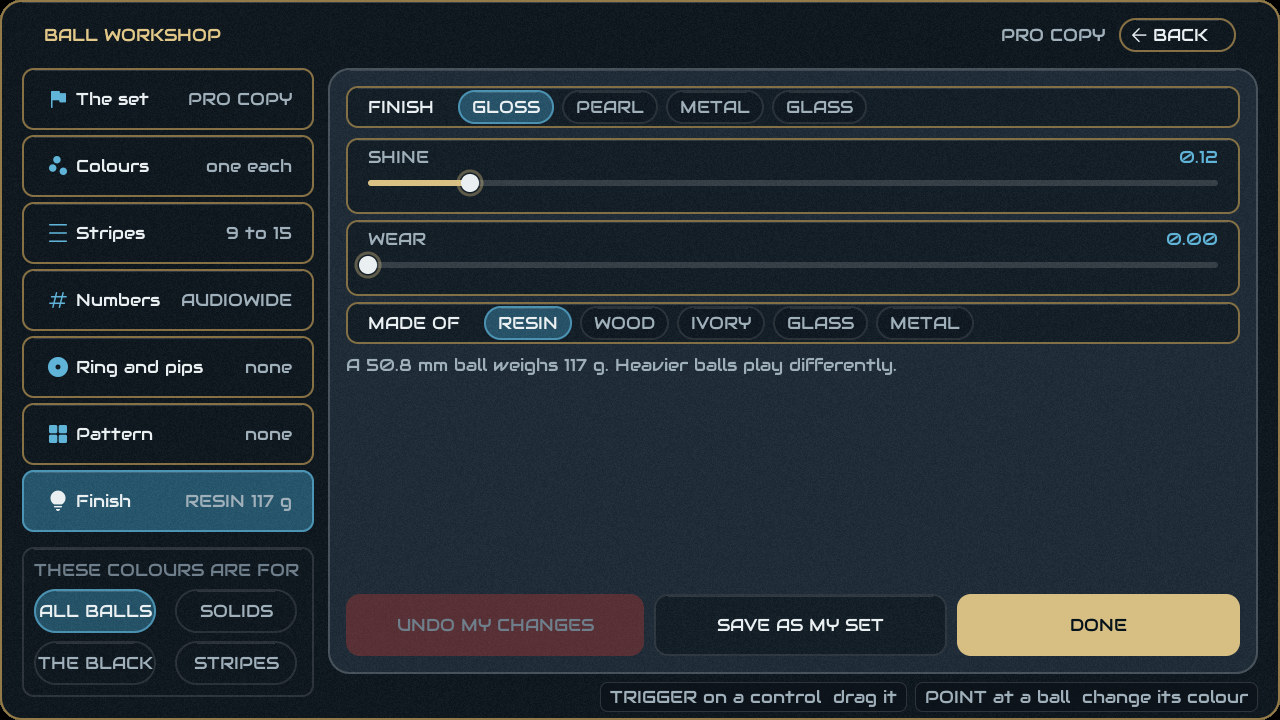
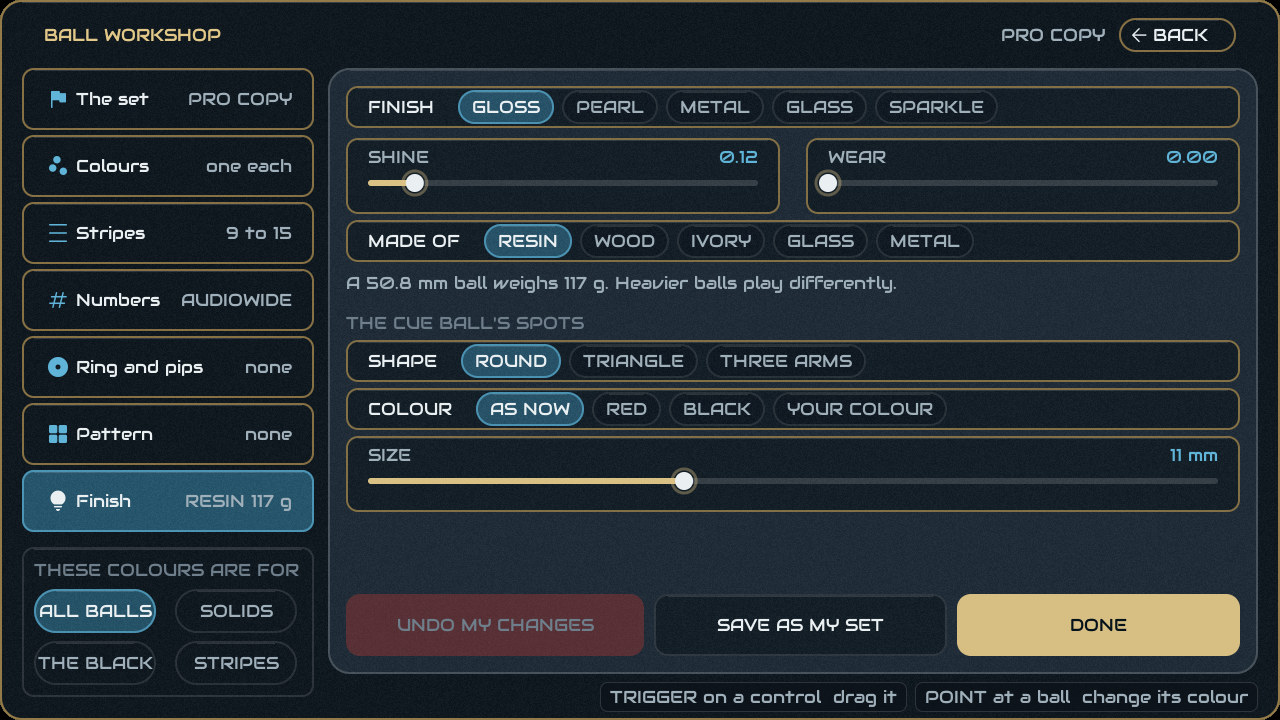
CueVR guide for 9.4.0: UK 8-ball's five rule sets in one table (WORLD RULES added; PUB's two visits carry, the free shot not the black, colours decided by a pot on it; the break and the black off it, in-hand areas and shot clocks for each; jump shots foul in all five), PLAY FROM BAULK, Heyball's jum

diff --git a/docs/cuevr-guide.html b/docs/cuevr-guide.html
@@ -1033,7 +1033,8 @@
       <b>free ball</b>: they may nominate any ball as the one they are on, and it scores what the
       real ball on is worth. Once you name a free ball you must hit it first, a foul with it costs
       what the ball on is worth, and you may not leave your opponent snookered behind it, except
-      when only the pink and black are left.</p>
+      when only the pink and black are left. If you pot the free ball and a colour that is on
+      together, only the colour scores.</p>
       <p><b>Miss.</b> Failing to hit the ball on is always a foul, and the referee judges whether
       it is also a <b>miss</b> — whether your attempt was good enough — at the standard set on the
       <b>RULES</b> row (see <a href="#rules">Rules and the referee</a>). When a miss is called your
@@ -1056,11 +1057,36 @@
     <figure><img width="880" height="606" src="img/cuevr/game-snk15.png" alt="A 12ft snooker table"></figure>
   </div>
 
+  <div class="mode rev">
+    <figure><img width="880" height="606" src="img/cuevr/snk-golden.png" alt="The golden ball against the middle of the baulk cushion" loading="lazy"></figure>
+    <div>
+      <h3 id="golden-ball">GOLDEN BALL</h3>
+      <div class="spec">ON THE SNOOKER RULES ROW · A GOLD WORTH 20</div>
+      <p>A gold ball sits against the middle of the baulk cushion. You may pot it only after a
+      maximum break: 147 on a full table, 107 with 10 reds, 75 with 6 and 51 with 3, which makes
+      167, 127, 95 or 71 with the gold. Once a maximum is no longer possible, the gold comes off the
+      table. Hitting it before then is a foul, priced as the black. The computer plays for it too,
+      and it works with 15, 10, 6 and 3 reds.</p>
+    </div>
+  </div>
+
+  <div class="mode">
+    <div>
+      <h3 id="snooker-plus">SNOOKER PLUS</h3>
+      <div class="spec">ON THE SNOOKER RULES ROW · ORANGE 8 · PURPLE 10</div>
+      <p>Joe Davis's 1959 game. Two more colours: an <b>orange worth 8</b> on a spot between the
+      pink and the blue, and a <b>purple worth 10</b> between the brown and the blue. After the
+      reds, the colours go in order of value, yellow to black, then the orange and the purple last.
+      The highest break on a full table is 210. It works with 15, 10, 6 and 3 reds, and online.</p>
+    </div>
+    <figure><img width="880" height="606" src="img/cuevr/snk-plus.png" alt="Snooker Plus: the orange between the pink and the blue, the purple between the blue and the brown" loading="lazy"></figure>
+  </div>
+
   <div class="mode solo screens">
   <div class="grid g2">
     <figure class="glass"><a href="img/cuevr/glass/pickrules-snooker.jpg"><img width="1280" height="720" src="img/cuevr/glass/pickrules-snooker.jpg" alt="The rules page, snooker" loading="lazy"></a>
     <figcaption><b>Snooker</b>: how strictly the miss is called (the miss levels), the Snooker
-    Shoot Out and The 900.</figcaption></figure>
+    Shoot Out, The 900, GOLDEN BALL and SNOOKER PLUS.</figcaption></figure>
   </div>
   </div>
 
@@ -1118,58 +1144,90 @@
   <div class="mode rev">
     <figure><img width="880" height="606" src="img/cuevr/game-uk8.png" alt="A UK 8-ball table"></figure>
     <div>
-      <h3>UK 8-ball</h3>
-      <div class="spec">7FT TABLE · REDS AND YELLOWS · BLACK · FOUR RULE SETS</div>
+      <h3 id="uk8">UK 8-ball</h3>
+      <div class="spec">7FT TABLE · REDS AND YELLOWS · BLACK · FIVE RULE SETS</div>
       <p>The pub game. The table is open until somebody pots a colour, and that colour becomes
       theirs; the other player takes the rest. Clear your seven, then pot the black to win.</p>
       <p><b>Fouls, in every rule set:</b> potting the cue ball, hitting nothing at all, hitting the
-      other player's colour first, hitting the black before you are on it, and driving any ball off
-      the table. Jumping the cue ball is <em>not</em> a foul in pool — except at BLACKBALL, whose
-      book forbids it.</p>
+      other player's colour first, hitting the black before you are on it, jumping the cue ball over
+      a ball, and driving any ball off the table.</p>
       <p><b>The black:</b> potting it before your colours are gone loses the frame, as does
       fouling on the shot that pots it.</p>
-      <p>What differs between PUB, INTERNATIONAL and ULTIMATE POOL is what a foul costs you,
-      whether a shot has to reach a cushion, and what happens if the black goes in off the break.
-      The fourth set, <b>BLACKBALL</b>, is described after the table. Choose on the <b>RULES</b>
-      row of the main menu.</p>
+      <p>What differs between PUB, WORLD RULES, INTERNATIONAL and ULTIMATE POOL is what a foul
+      costs you, where the cue ball goes after an in-off, whether a shot has to reach a cushion,
+      and what the break has to do. The fifth set, <b>BLACKBALL</b>, is described after the table.
+      Choose on the <b>RULES</b> row of the main menu.</p>
     </div>
   </div>
 
   <table>
-    <tr><th></th><th>PUB (2 SHOTS)</th><th>INTERNATIONAL</th><th>ULTIMATE POOL</th></tr>
+    <tr><th></th><th>PUB (2 SHOTS)</th><th>WORLD RULES</th><th>INTERNATIONAL</th><th>ULTIMATE POOL</th></tr>
     <tr><td><b>After a foul</b></td>
-        <td>Your opponent gets <b>two visits</b>. The cue ball stays where it finished.</td>
+        <td colspan="2">Your opponent gets <b>two visits</b>, and they carry: pot a ball and you
+        keep both. The cue ball stays where it finished.</td>
         <td colspan="2"><b>One visit, ball in hand anywhere on the table.</b></td></tr>
     <tr><td><b>If the cue ball was potted</b></td>
-        <td>They play from in hand, behind the baulk line, inside the D.</td>
+        <td>From in hand, inside the D.</td>
+        <td>From in hand, anywhere behind the baulk line.</td>
         <td colspan="2">Anywhere on the table, like any other foul.</td></tr>
-    <tr><td><b>The first of the two shots</b></td>
-        <td>Free — they may hit any ball. Potting one of their balls cancels the second shot.</td>
+    <tr><td><b>The first shot after a foul</b></td>
+        <td>Free: hit any ball except the black, unless you are on the black.</td>
+        <td>Not free, unless the foul left you snookered. Then you name one of your opponent's
+        balls to play, with <b>NOMINATE</b> on the MENU.</td>
         <td colspan="2">Not applicable: there is only one visit.</td></tr>
+    <tr><td><b>Potting your opponent's ball</b></td>
+        <td>A foul only if none of yours goes down with it.</td>
+        <td>Always a foul.</td>
+        <td colspan="2">Not a foul.</td></tr>
     <tr><td><b>Must a shot reach a cushion?</b></td>
         <td>No. A shot that pots nothing and touches no cushion is legal.</td>
-        <td colspan="2"><b>Yes.</b> Pot a ball, or send some ball to a cushion after the contact,
+        <td colspan="3"><b>Yes.</b> Pot a ball, or send some ball to a cushion after the contact,
         or it is a foul.</td></tr>
+    <tr><td><b>The break</b></td>
+        <td>Pot a ball or send two balls past the middle pockets. If not, the balls are racked
+        again and your opponent breaks.</td>
+        <td>Pot a ball or drive four balls to a cushion. If not, it is a foul: the balls are racked
+        again and your opponent breaks, with two visits.</td>
+        <td>Pot a ball or drive four balls to a cushion. If not, the balls are racked again.</td>
+        <td>Score three: one for each ball potted and each ball past the middle pockets. If not,
+        the balls are racked again.</td></tr>
     <tr><td><b>Black off the break</b></td>
-        <td>Put back on its spot, break stands.</td>
-        <td>Put back on its spot, break stands.</td>
-        <td><b>Golden break — you win the frame.</b> With the cue ball as well, or with any other
+        <td colspan="2">Racked again, and the same player breaks.</td>
+        <td>Put back on its spot, the break stands.</td>
+        <td><b>Golden break: you win the frame.</b> With the cue ball as well, or with any other
         foul, you lose it: the golden duck.</td></tr>
+    <tr><td><b>Shot clock</b></td>
+        <td>None.</td>
+        <td>60 seconds.</td>
+        <td>None.</td>
+        <td>30 seconds, and a match clock (below).</td></tr>
   </table>
 
   <div class="note">
-    <b>Which is which.</b> PUB is the game in most pubs — the two-shot carry. INTERNATIONAL is the
-    International 8-Ball ruleset, now used by the WEPF and the EPA. ULTIMATE POOL is that same
-    ruleset as played by the Ultimate Pool Group, whose tournaments add the golden break.
-    BLACKBALL is the WPA's rulebook.
+    <b>Colours on a free shot.</b> In PUB and WORLD RULES, if the colours are not yet decided and
+    you pot a ball on your free shot, that colour is yours.
   </div>
 
   <div class="note">
-    <b>BLACKBALL (WPA)</b>, the fourth set, is the official world rulebook. After any foul your
-    opponent gets a <b>free shot</b> — they may play any ball on the table — plus one visit to
-    follow. Go in-off and the cue ball comes back to <b>baulk</b>. The break has to pot a ball or send
-    <b>two object balls past the middle pockets</b>, <b>jump shots are fouls</b>, and every shot is
-    on a <b>sixty-second clock</b>.
+    <b>Which is which.</b> PUB is the old two-shot pub game, as it was played before 2000.
+    WORLD RULES is the World Eightball Pool Federation's book. INTERNATIONAL is the International
+    8-Ball ruleset, used by the EPA. ULTIMATE POOL is that same ruleset as played by the Ultimate
+    Pool Group, whose tournaments add the golden break. BLACKBALL is the WPA's rulebook.
+  </div>
+
+  <div class="note">
+    <b>BLACKBALL (WPA)</b>, the fifth set, is the official world rulebook. After any foul your
+    opponent gets a <b>free shot</b>, when they may play any ball on the table, plus one visit to
+    follow. The cue ball is played from where it lies, or from <b>baulk</b>: after an in-off it
+    always comes back to baulk. The break has to pot a ball or send <b>two object balls past the
+    middle pockets</b>, the black off the break is racked again, and every shot is on a
+    <b>sixty-second clock</b>.
+  </div>
+
+  <div class="note">
+    <b>PLAY FROM BAULK.</b> In BLACKBALL after any foul, and in WORLD RULES when the foul has left
+    you snookered, <b>PLAY FROM BAULK</b> is on the MENU before your first shot. It takes the cue
+    ball into your hand behind the baulk line.
   </div>
 
   <div class="note warn">
@@ -1178,7 +1236,7 @@
     last five seconds and a klaxon when it expires</b>. Let it run out and it is a foul, scored
     like any other in that rule set: your opponent has ball in hand anywhere. It is what the
     televised game does. PUB and INTERNATIONAL have no clock, and neither does practice; BLACKBALL
-    runs a gentler one at sixty seconds.
+    and WORLD RULES run a gentler one at sixty seconds.
   </div>
 
   <div class="note warn">
@@ -1199,8 +1257,8 @@
   <div class="mode solo screens">
   <div class="grid g2">
     <figure class="glass"><a href="img/cuevr/glass/pickrules-uk8.jpg"><img width="1280" height="720" src="img/cuevr/glass/pickrules-uk8.jpg" alt="The rules page, UK 8-ball" loading="lazy"></a>
-    <figcaption><b>UK 8-ball</b>: PUB (2 SHOTS), INTERNATIONAL, ULTIMATE POOL, BLACKBALL (WPA)
-    and KILLER.</figcaption></figure>
+    <figcaption><b>UK 8-ball</b>: PUB (2 SHOTS), INTERNATIONAL, ULTIMATE POOL, BLACKBALL (WPA),
+    KILLER and WORLD RULES.</figcaption></figure>
   </div>
   </div>
 
@@ -1305,6 +1363,9 @@
       still there as a second size in the table settings. The cloth is chalked as the rules say: the
       head string and the foot spot. The rack is set on a black magic rack, which is taken away once
       every ball has moved off its spot.</p>
+      <p><b>Jump shots</b> follow the Heyball book: a jump is legal only if you strike the cue ball
+      above its centre. Strike it below centre, or miscue, and jump it over a ball, and your opponent
+      has ball in hand.</p>
       <p>Those pockets are the whole difference. They reject a ball hit too hard and punish an
       approach that is even slightly off. Of the pool games it is the tightest at 1.50 ball widths, and only the two Russian pyramid tables are harder.</p>
       <p>The RULES row carries four ways to play it. <b>HEYBALL</b> is the standard code and calls
@@ -1360,6 +1421,9 @@
       <p><b>In practice it never runs out.</b> With the opponent set to <b>FREE PRACTICE</b>, when
       one ball is left the other fourteen are racked again, as in the real game, so you can keep
       going.</p>
+      <p><b>When the fourteen go back up</b>, the cue ball and the last ball are moved only if they
+      are in the way, and the chalked triangle decides that: a ball over the chalk line, at the
+      point of the triangle or its back corners too, is in the way.</p>
       <p><b>Your visit.</b> Keep making your calls and you stay at the table. Miss one and your
       opponent is in, and the board says <b>MISSED CALL</b> — or <b>SAFETY</b>, if you called
       nothing at all.</p>
@@ -2615,30 +2679,28 @@
   <p>At snooker, failing to hit the ball on is always a foul. The referee also decides whether it
   was a <b>miss</b>: whether you made a good enough attempt. If it was a miss, your opponent can
   have the balls put back and make you play it again.</p>
-  <p>How strict the referee is, is set on the snooker <b>RULES</b> row:</p>
+  <p>The referee follows the rule book (WPBSA Rule 14). <b>If you could see any part of the ball
+  on</b> and failed to hit it, it is always a miss, at every standard, however close you came.
+  <b>If you were snookered</b>, the referee lets the attempt go only if the cue ball had the pace to
+  reach the ball on and finished close enough to it. How close is set on the snooker <b>RULES</b>
+  row, and grows with each cushion the easiest way out needed:</p>
   <table>
-    <tr><td><b>MISS: AMATEUR</b></td><td>A genuine try is enough — within about three ball widths,
-      with most of the pace to get there.</td></tr>
-    <tr><td><b>MISS: CLUB</b></td><td>The default. Within a ball and a half, at nearly full
-      pace.</td></tr>
-    <tr><td><b>MISS: PRO</b></td><td>As on television: almost every failure is called. Within about
-      a third of a ball, and the cue ball must have had the pace to pass the ball on.</td></tr>
+    <tr><th></th><th>Close enough, in ball widths</th><th>Pace</th></tr>
+    <tr><td><b>MISS: AMATEUR</b></td><td>1.5, plus 0.6 for each cushion the escape needed</td>
+      <td>Over half the way to the ball</td></tr>
+    <tr><td><b>MISS: CLUB</b></td><td>The default. 0.75, plus 0.35 for each cushion</td>
+      <td>Nearly all the way</td></tr>
+    <tr><td><b>MISS: PRO</b></td><td>As on television. A quarter of a ball, plus 0.15 for each
+      cushion</td><td>Enough to pass the ball on</td></tr>
   </table>
+  <p>The cushions counted are the fewest the position asked for, not the number your shot happened
+  to use, so going round the table the long way earns no extra room. Three misses in a row lose the
+  frame, but only misses from a position where you could hit the ball on full; one good attempt
+  starts the count again.</p>
 
-  <p><b>How the referee decides.</b> He looks at the ball on that you came nearest to, and
-  asks two things:</p>
-  <table>
-    <tr><td><b>How close you came</b></td><td>Measured in ball widths — roughly three balls at
-      AMATEUR, a ball and a half at CLUB, a third of a ball at PRO.</td></tr>
-    <tr><td><b>Whether it was a real attempt</b></td><td>How far the cue ball travelled against how
-      far it had to go. A dribble that stops short is a miss however well aimed it was.</td></tr>
-  </table>
-  <p>He allows more room when you were snookered (three times as much) and on longer shots, as a
-  real referee does. Three misses in a row lose the frame, but misses from a snooker do not count
-  towards the three, and one good attempt starts the count again.</p>
-
-  <p>The same row has <b>SHOOTOUT</b> and <b>THE 900</b>. These are different, timed games with
-  no miss rule: see <a href="#games">The games</a>.</p>
+  <p>The same row has <b>SHOOTOUT</b> and <b>THE 900</b>, different timed games with no miss rule,
+  and <b>GOLDEN BALL</b> and <b>SNOOKER PLUS</b>, which add balls to the table: see
+  <a href="#games">The games</a>.</p>
 
   <h3 id="touching">Touching ball</h3>
   <p>When the cue ball comes to rest touching another ball, the referee calls <b>touching ball</b>
@@ -2954,6 +3016,14 @@
       play, you play next, you play the winner, or where you are in the queue. The next frame
       starts by itself a few seconds later. <b>LEAVE THE ROOM</b> takes you out.</li>
     <li><b>Join a room that is already playing</b> and you go on the back of the queue.</li>
+    <li><b>Practise while you wait,</b> at a club table. Go to a free table and press <b>PRACTISE
+      HERE</b> on its glass, then pick any game and rules. You can still watch the frame on the
+      winner stays on table, and you keep your place in the queue. When it is your turn, your
+      practice ends and you go back for your frame; to go back sooner, press <b>BACK TO TABLE</b>
+      on your practice table's glass. Someone who is not at a table can press <b>SET UP A
+      GAME</b> on your practice table to start a game there, and you go back to watching, still in
+      the queue. <b>HOME</b> keeps your practice, and its red buttons are for the winner stays on
+      game: <b>END MATCH</b> leaves it.</li>
     <li><b>Anyone can leave,</b> the player who set the room up included, and the room carries on
       for everyone else. At a club table the table stays in the club for the others to join. If
       the player running the room loses their connection or their game closes, their opponent
@@ -2993,8 +3063,9 @@
   play, so you can see at a glance where the games are.</p>
   <figure>
     <img width="880" height="586" src="img/cuevr/club_glass.jpg" alt="A table's glass">
-    <figcaption>Walk up to a table and its glass appears on the edge nearest you. Point at a button
-    and pull the trigger.</figcaption>
+    <figcaption>Walk up to a table and its glass appears on the edge nearest you, within about
+    1.4 m of the rail. It stays while you move about near the table, until you are 2 m away or
+    clearly nearer another table. Point at a button and pull the trigger.</figcaption>
   </figure>
   <table>
     <tr><th>The glass says</th><th>What you can do</th></tr>
@@ -3299,6 +3370,8 @@
       and play.</li>
     <li><b>One bar game at a time.</b> While you are in a game, or waiting for one to start, you
       cannot start or join another. You are told which game you are in.</li>
+    <li><b>Watch a game:</b> stand within 3 m of air hockey, chess, carrom or shuffleboard and you
+      see the game as it is played.</li>
   </ul>
 
   <h3 id="bar-playing">While you play</h3>
@@ -3332,8 +3405,9 @@
 
   <h3 id="darts">Darts</h3>
   <figure class="panel"><img width="880" height="606" src="img/cuevr/pit-darts.jpg" alt="A dartboard in the Pit, between the honours boards" loading="lazy"><figcaption>A dartboard in the Pit, between the honours boards.</figcaption></figure>
-  <p>A regulation board with the oche 2.37 m from it. The scoreboard above the board keeps the
-  score, and the referee calls each visit.</p>
+  <p>A regulation board with the oche 2.37 m from it. The numbers round the board read from
+  across the room. The scoreboard above the board keeps the score, and the referee calls each
+  visit. Its sign lists the games and says <b>SET IT UP OVER HERE</b>.</p>
   <table>
     <tr><th></th><th>With a controller</th><th>With bare hands</th></tr>
     <tr><td><b>Pick up a dart</b></td><td>Hold the trigger lightly near it.</td><td>Pinch it.</td></tr>
@@ -3423,6 +3497,8 @@
     <li><b>On your serve,</b> your other hand picks the puck up and puts it down on your half.</li>
     <li><b>Seven seconds:</b> if the puck stays on your side for seven seconds, it goes to your
       opponent.</li>
+    <li><b>The goals</b> are slits at puck height in each end, as on a real table, and the puck
+      drops in. A steel rim runs round the playing surface, under the wooden frame.</li>
     <li><b>A game</b> is first to 5, 7 or 10, and a match is one game or the best of three or
       five. The scoreboard stands over the table.</li>
     <li><b>The computer players</b> shoot straight or off the rails, and go for the side of
@@ -4285,7 +4361,8 @@
   weight) is on <a href="#cuefeel">Settings &rarr; Cue feel</a>.</p>
 
   <h3 id="mxink">The Logitech MX Ink</h3>
-  <p>The pen works as a cue. Its buttons do these jobs:</p>
+  <p>The pen works as a cue, on its own or fixed to a real cue, with hand tracking on or off. Its
+  buttons do these jobs:</p>
   <table>
     <tr><th>On the pen</th><th>What it is</th></tr>
     <tr><td>Middle pad</td><td>The trigger.</td></tr>
@@ -4642,7 +4719,9 @@
   <div class="note">
     <b>You cannot change to a set of a different weight during a frame.</b> A set that weighs
     the same as the one on the table can be chosen at any time. The others are dimmed until the
-    frame is over. Online, both players use the host's set.
+    frame is over. Online, everyone in the room plays the host's set, and anyone watching sees it.
+    That includes a set the host built: it goes to everyone whole, with its cue ball spots, and is
+    played at its weight.
   </div>
 
   <div class="note">
@@ -4663,7 +4742,23 @@
     <figure class="shot"><a href="img/cuevr/glass/balls-3-numbers.jpg"><img width="1280" height="720" src="img/cuevr/glass/balls-3-numbers.jpg" alt="Numbers" loading="lazy"></a><span class="lab">Numbers</span><figcaption><b>Numbers</b>: none, in a circle, on the ball or the black only; their size, the circle's size and how solid it is; and the FONT.</figcaption></figure>
     <figure class="shot"><a href="img/cuevr/glass/balls-4-ring.jpg"><img width="1280" height="720" src="img/cuevr/glass/balls-4-ring.jpg" alt="Ring and pips" loading="lazy"></a><span class="lab">Ring and pips</span><figcaption><b>Ring and pips</b>: a ring round the number and a second ring, their thickness and size, gaps in the ring, and pips.</figcaption></figure>
     <figure class="shot"><a href="img/cuevr/glass/balls-5-pattern.jpg"><img width="1280" height="720" src="img/cuevr/glass/balls-5-pattern.jpg" alt="Pattern" loading="lazy"></a><span class="lab">Pattern</span><figcaption><b>Pattern</b>: camo, bands, marbled, sparkle, hex, crackle, galaxy, wood or swirl, then where it goes, its size and its strength.</figcaption></figure>
-    <figure class="shot"><a href="img/cuevr/glass/balls-6-finish.jpg"><img width="1280" height="720" src="img/cuevr/glass/balls-6-finish.jpg" alt="Finish" loading="lazy"></a><span class="lab">Finish</span><figcaption><b>Finish</b>: gloss, pearl, metal or glass; shine and wear; and what the balls are <b>MADE OF</b>, which sets their weight. Heavier balls play differently.</figcaption></figure>
+    <figure class="shot"><a href="img/cuevr/glass/balls-6-finish.jpg"><img width="1280" height="720" src="img/cuevr/glass/balls-6-finish.jpg" alt="Finish" loading="lazy"></a><span class="lab">Finish</span><figcaption><b>Finish</b>: gloss, pearl, metal, sparkle or glass; shine and wear; the cue ball's <b>SPOTS</b>; and what the balls are <b>MADE OF</b>, which sets their weight. Heavier balls play differently.</figcaption></figure>
+  </div>
+
+  <div class="mode">
+    <div>
+      <h4 id="own-sets">Your own sets</h4>
+      <p><b>SPARKLE</b> on the Finish page gives any set the sparkling metal finish of the golden
+      ball: fine glints that catch the lamps as the balls turn. <b>CHRISTMAS BALLS</b>, a player's
+      set, is built on it.</p>
+      <p><b>The cue ball's spots</b> are on the Finish page too. <b>SHAPE</b> is round dots, rounded
+      triangles or the three-armed mark of a real measle cue ball. <b>COLOUR</b> is their usual
+      colour, red, black or a colour of your own. <b>SIZE</b> runs from 5 mm to 24 mm across. Sets
+      you already had keep the spots they had.</p>
+      <p>A set you built plays online: when you host, everyone in the room sees it, and in the club
+      people at other tables see your table in it. Give it to a friend with <b>SHARE</b>.</p>
+    </div>
+    <figure><img width="880" height="606" src="img/cuevr/set-christmas.jpg" alt="CHRISTMAS BALLS, a player's set with the sparkle finish" loading="lazy"><figcaption><span class="cap-t">CHRISTMAS BALLS</span> — A player's set, sparkle finish.</figcaption></figure>
   </div>
   
 <h3 id="wood">Woodwork</h3>
@@ -5826,8 +5921,10 @@
 
   <h3>Jump shots</h3>
   <p>Raise the cue far enough and the cue ball leaves the bed. It comes down, bounces two or three
-  times — cloth over slate gives very little back — and settles into a normal roll. Snooker has its rules
-  about when a jump is allowed and when it is a foul, and the referee applies them.</p>
+  times — cloth over slate gives very little back — and settles into a normal roll. Each game has its
+  rules about when a jump is allowed and when it is a foul, and the referee applies them: a jump over
+  a ball is a foul at snooker and in every UK 8-ball rule set, legal at US 8-ball, and legal at
+  Chinese 8-ball only when you strike the cue ball above its centre.</p>
 
   <h3>Throw: the ball you hit does not go quite where you aimed</h3>
   <p>When two balls meet they grip each other for the instant they are touching, and that grip
